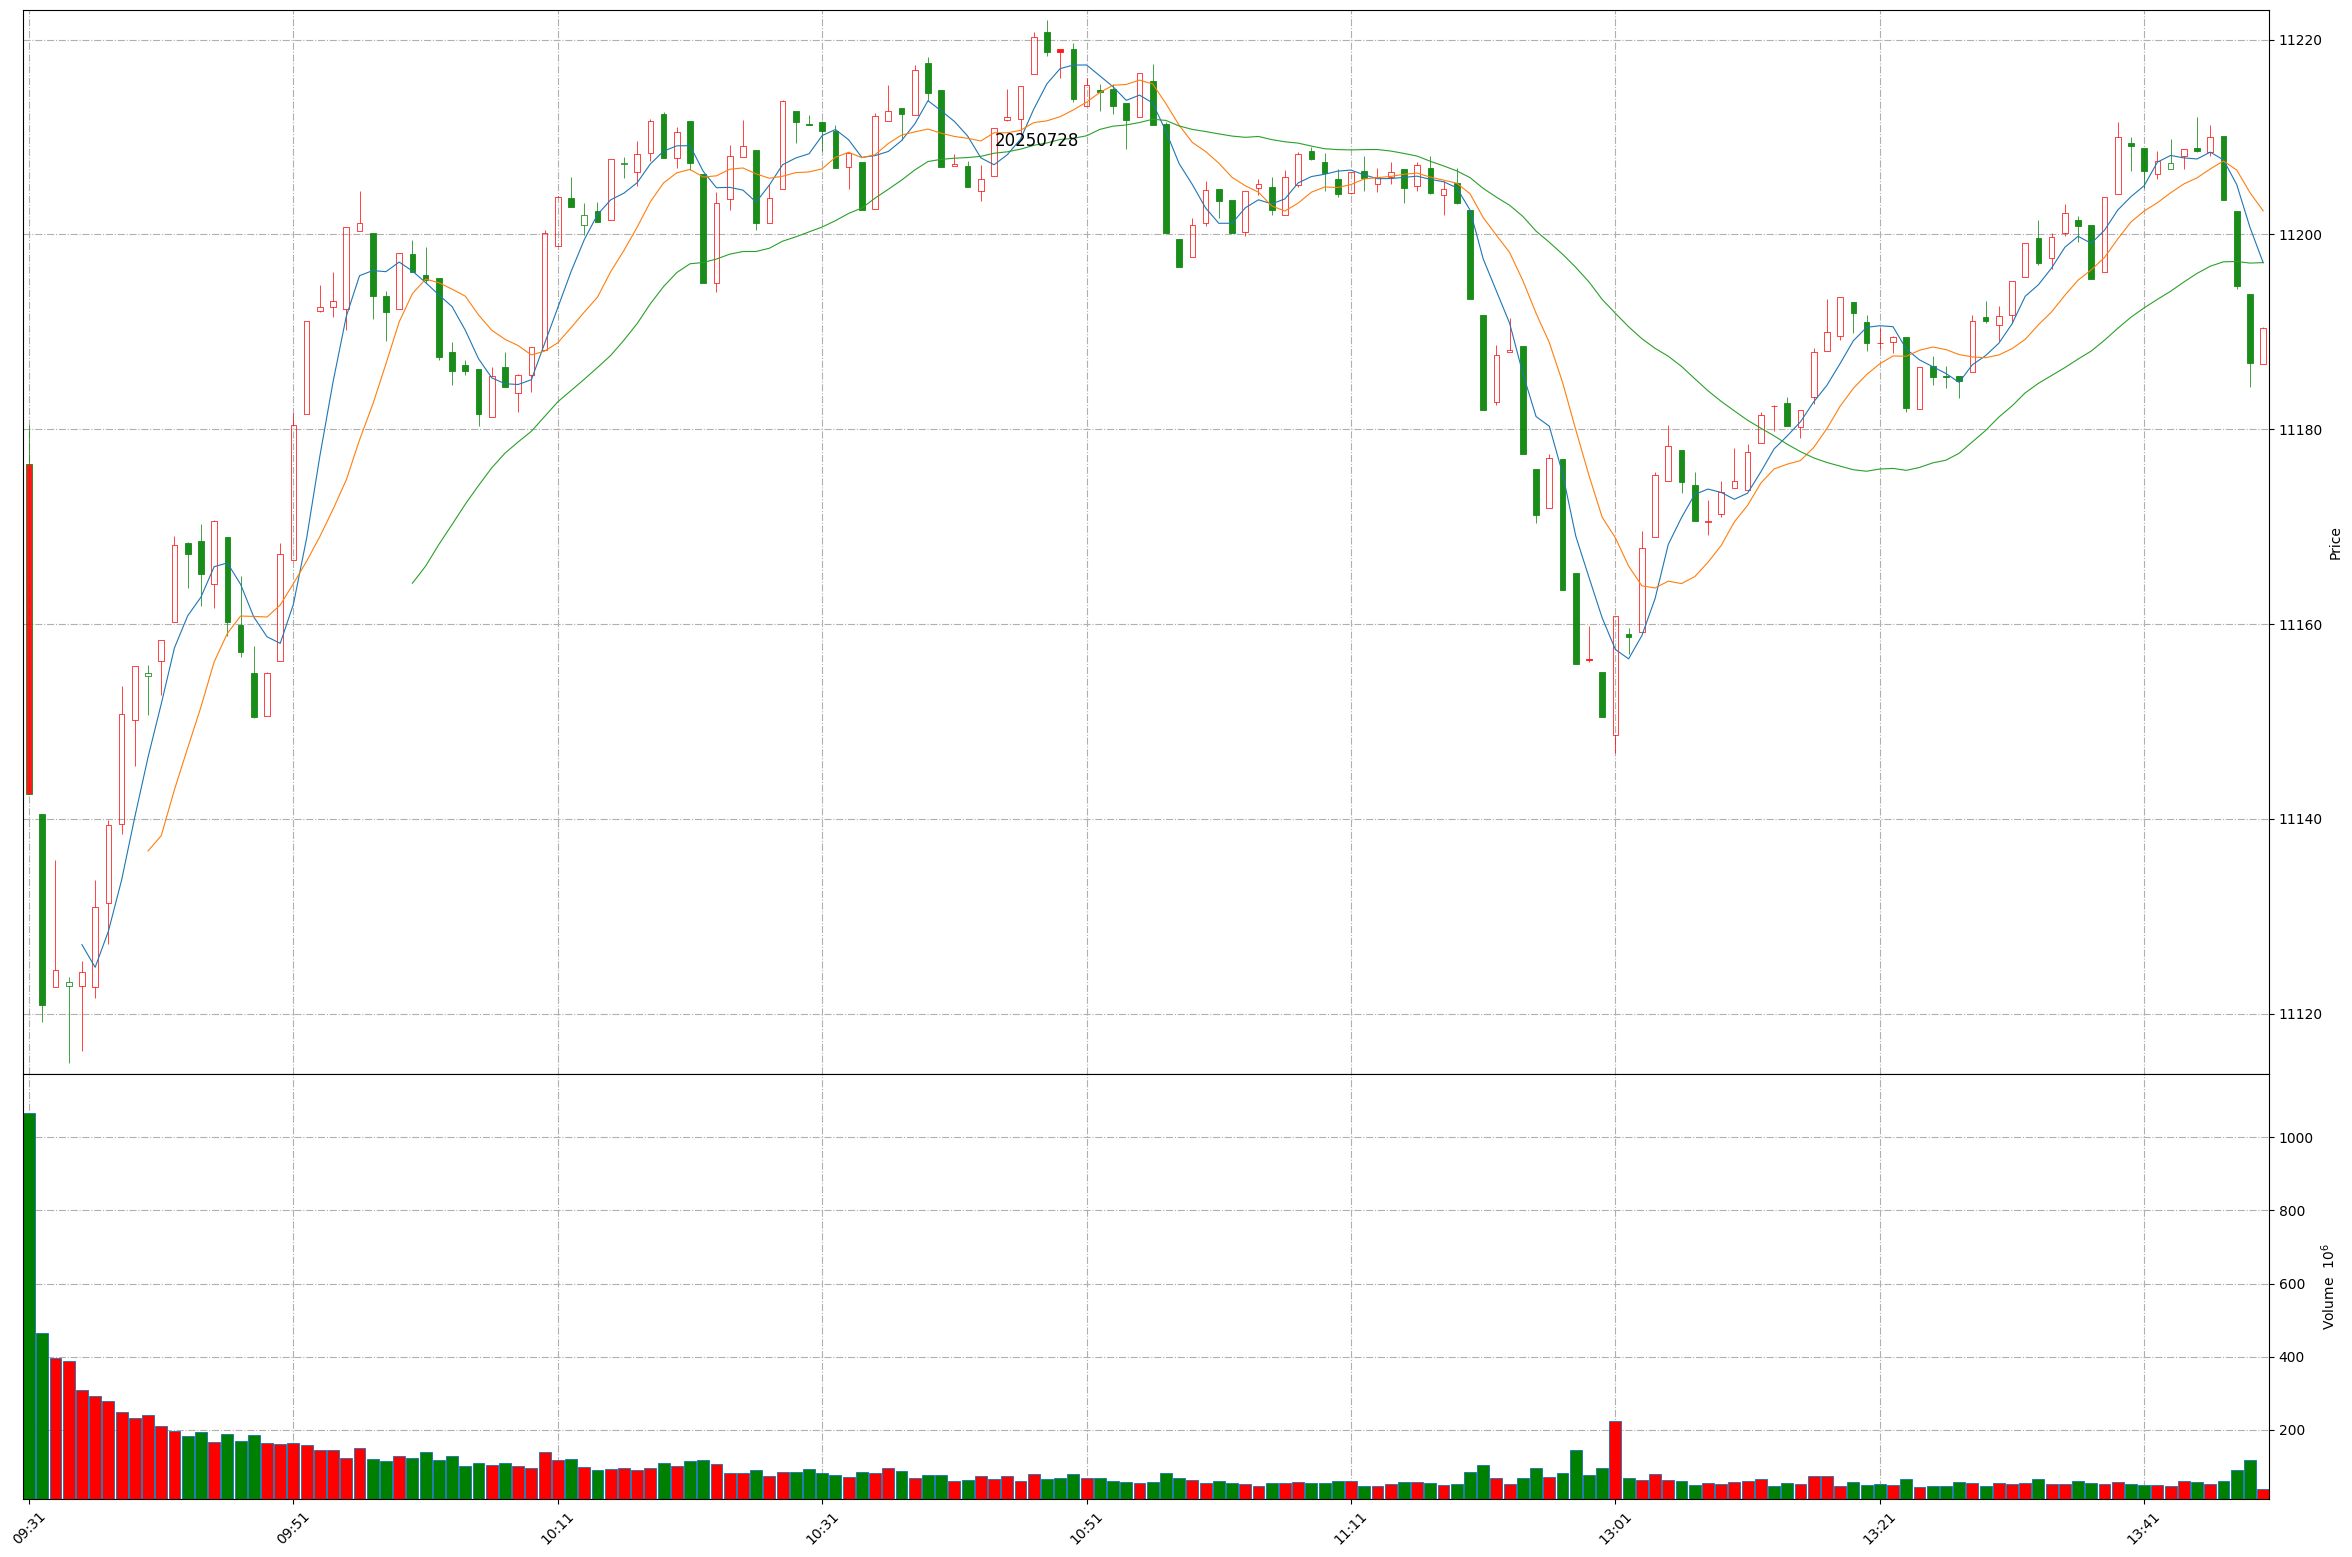
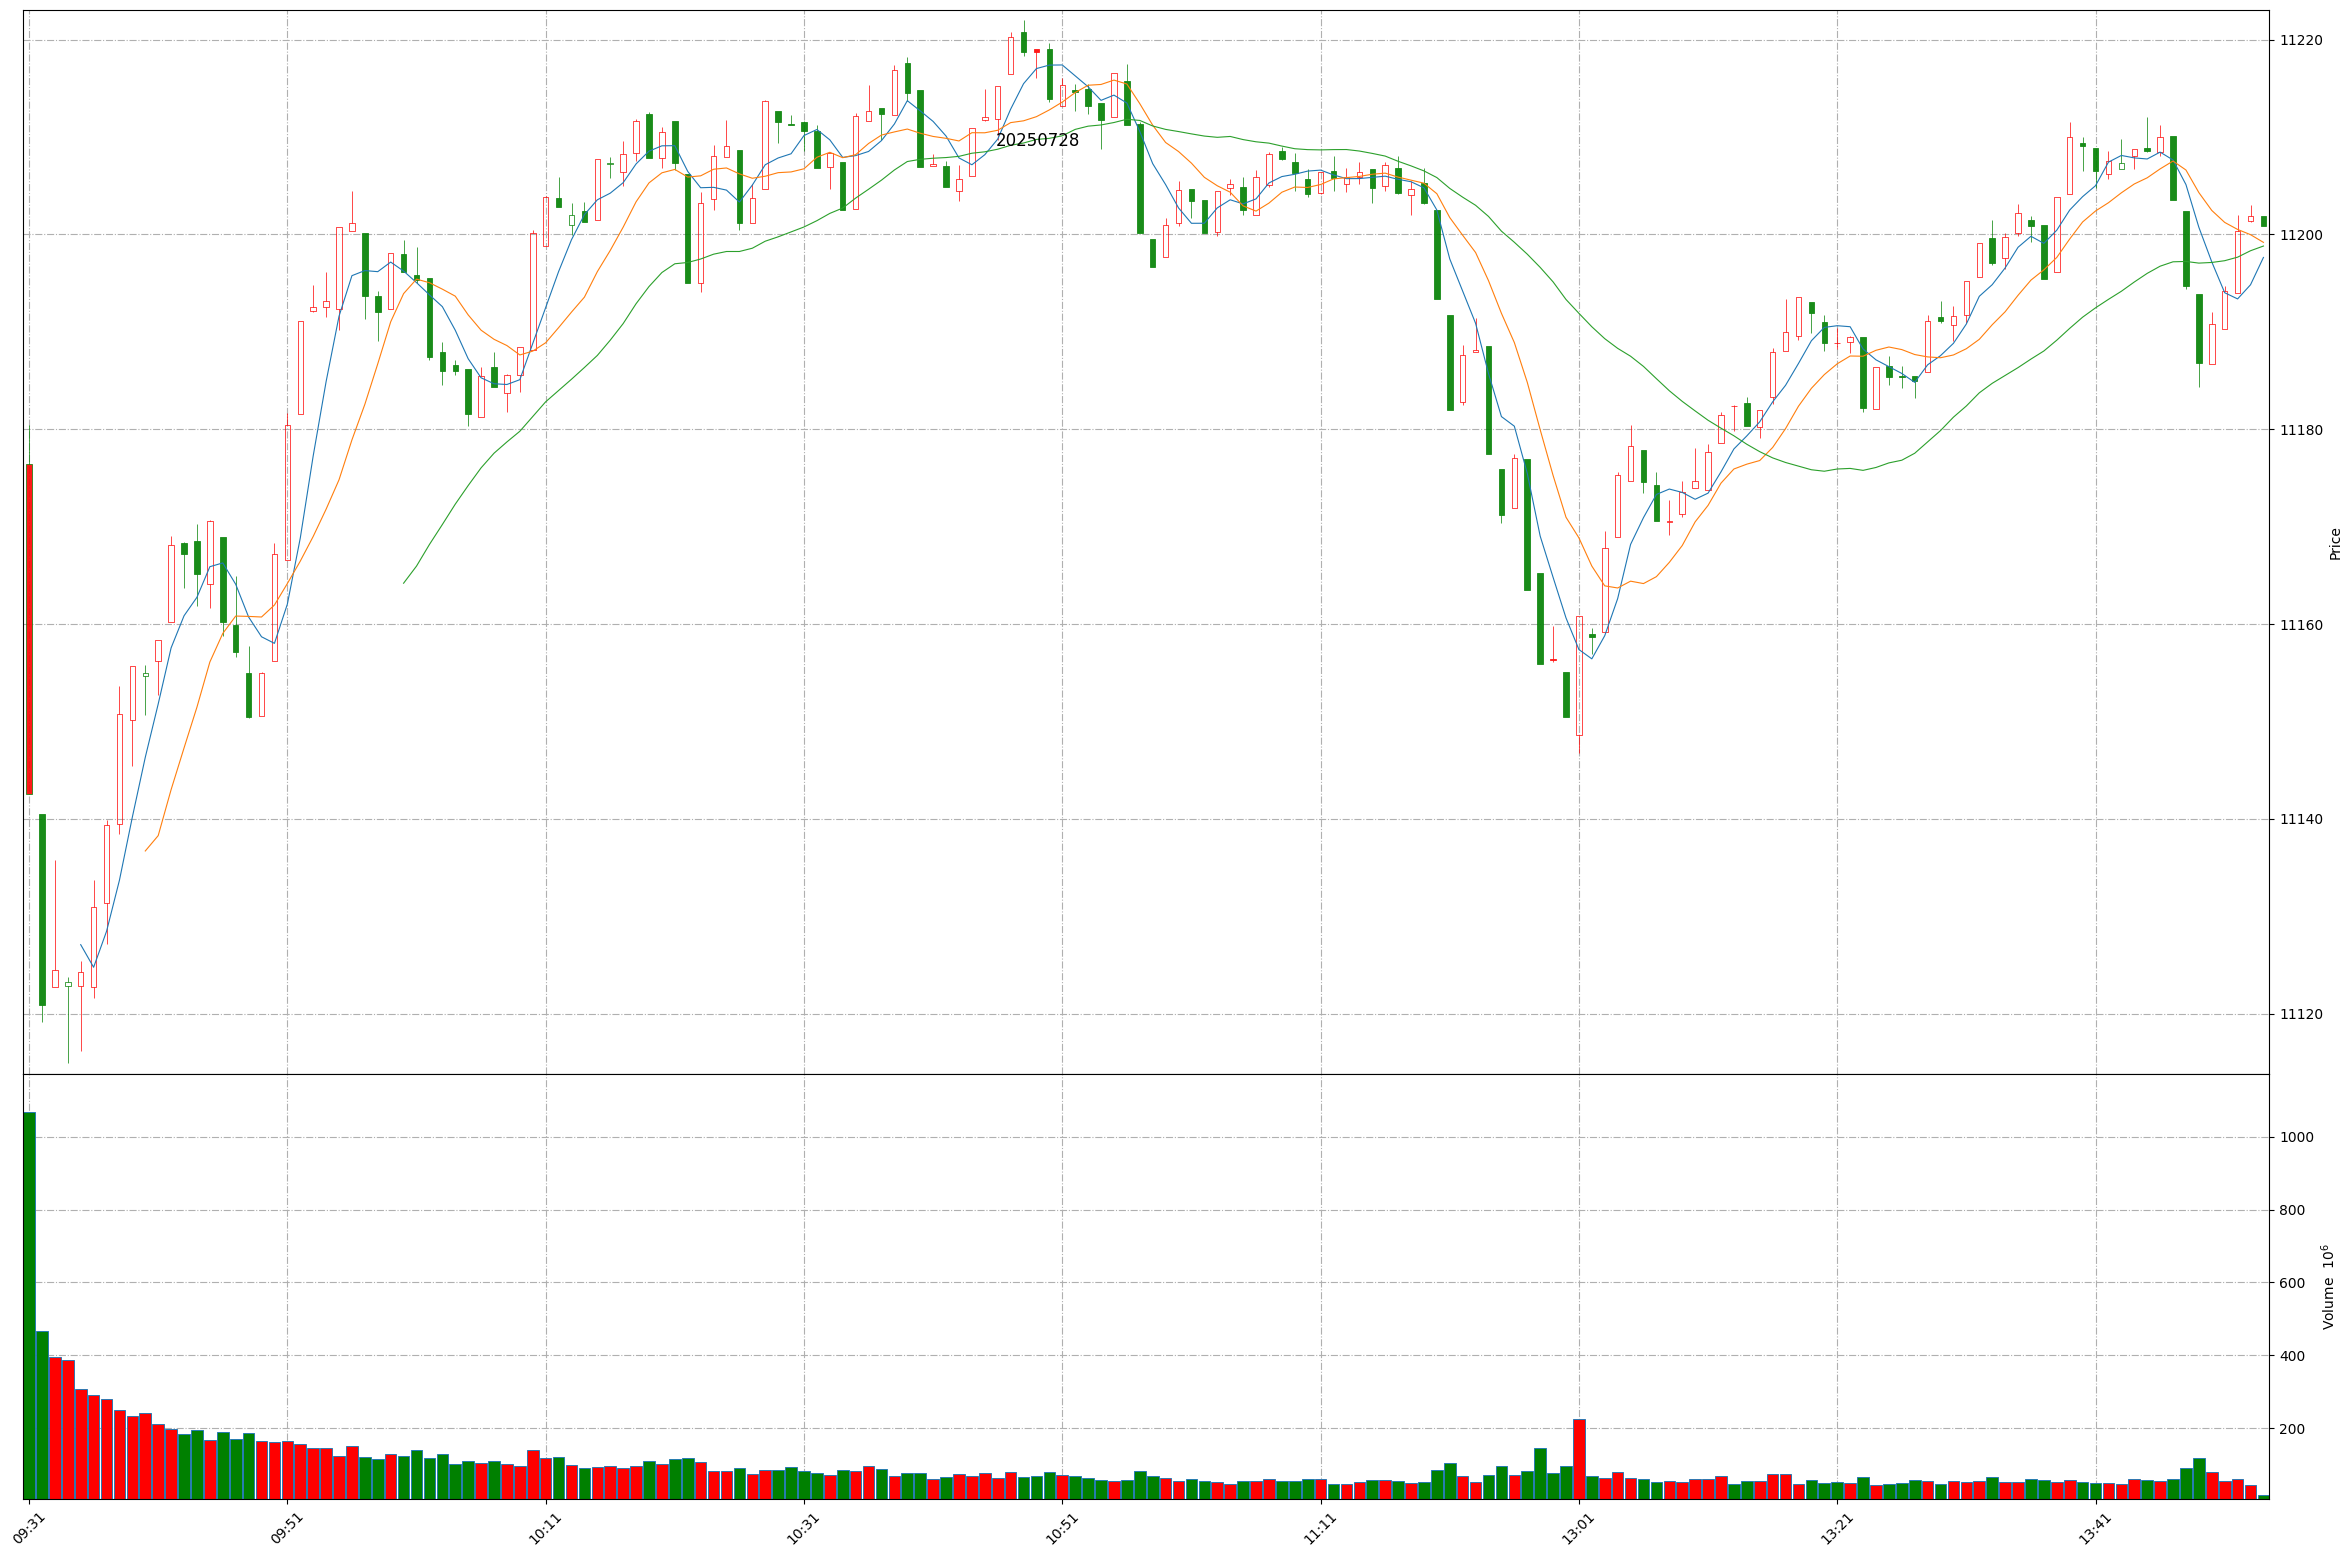
Github action update at 2025-07-28 13:53:36.

Changed region(s): [[0.0621, 0.0308, 0.9622, 0.4624], [0.031, 0.894, 0.9622, 0.9865], [0.031, 0.4933, 0.0621, 0.6166]]

diff --git a/README.md b/README.md
@@ -1,11 +1,11 @@
 
 # Daily-A-share-market-quotes 每日 A 股指数（5min 更新）- 20250728
 
-### 上证指数 20250728 13:49
+### 上证指数 20250728 13:53
 ![](./fig/2025/7/20250728-sh000001.png)
 
-### 深证成指 20250728 13:49
+### 深证成指 20250728 13:53
 ![](./fig/2025/7/20250728-sz399001.png)
 
-### 北证50 20250728 13:49
+### 北证50 20250728 13:53
 ![](./fig/2025/7/20250728-bj899050.png)
